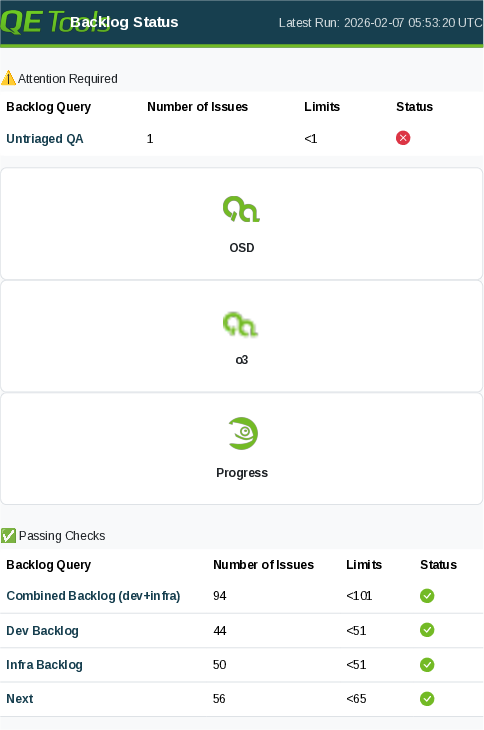
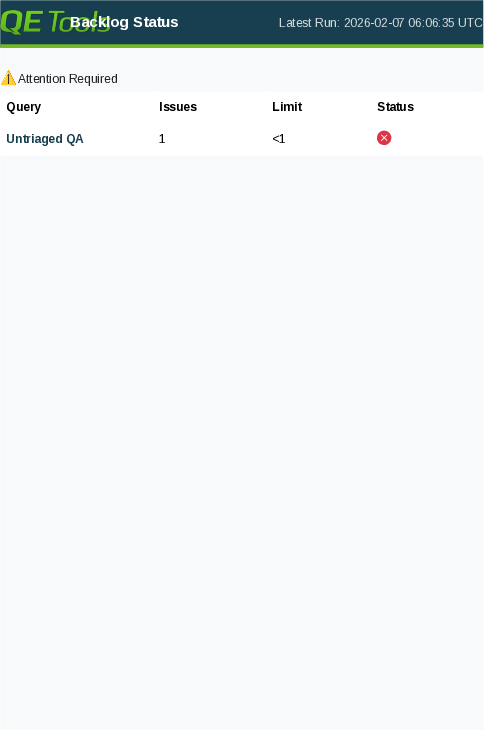
Deploying to gh-pages from @ r-richardson/qa-tools-backlog-assistant@5b09ac97a2b5991b21ab63a0f23c7e1541bede53 🚀

diff --git a/index.html b/index.html
@@ -151,7 +151,7 @@
       <span class="navbar-brand mb-0 h1 ms-1">Backlog Status</span>
     </div>
     <span class="navbar-text">
-       Latest Run: 2026-02-07 05:53:20 UTC
+       Latest Run: 2026-02-07 06:06:35 UTC
     </span>
   </div>
 </nav>
@@ -160,7 +160,7 @@
 <main><h4 id="attention-required">⚠ Attention Required</h4>
 <div class="table-responsive">
 <table class="table table-hover">
-<thead><tr><th>Backlog Query</th><th>Number of Issues</th><th>Limits</th><th>Status</th></tr></thead>
+<thead><tr><th>Query</th><th>Issues</th><th>Limit</th><th>Status</th></tr></thead>
 <tbody>
 <tr class="clickable-row" data-href="https://progress.opensuse.org/issues?query_id=576&amp;project_id=115"><td><a href="https://progress.opensuse.org/issues?query_id=576&amp;project_id=115">Untriaged QA</a></td><td>1</td><td>&lt;1</td><td><i class="bi bi-x-circle-fill status-fail"></i></td></tr>
 </tbody></table></div>
@@ -184,12 +184,54 @@
             <span>Progress</span>
         </a>
         
+
+        <a href="https://github.com/notifications" class="app-card" target="_blank">
+            <img src="icons/github_github.svg" alt="Github" class="app-icon" />
+            <span>Github</span>
+        </a>
+        
+
+        <a href="https://gitlab.suse.de/dashboard/todos" class="app-card" target="_blank">
+            <img src="icons/gitlab_gitlab.svg" alt="Gitlab" class="app-icon" />
+            <span>Gitlab</span>
+        </a>
+        
+
+        <a href="https://src.suse.de/" class="app-card" target="_blank">
+            <img src="icons/gitea_gitea.svg" alt="Gitea" class="app-icon" />
+            <span>Gitea</span>
+        </a>
+        
+
+        <a href="https://netbox.suse.de" class="app-card" target="_blank">
+            <img src="icons/netbox_netbox-dark.svg" alt="Netbox" class="app-icon" />
+            <span>Netbox</span>
+        </a>
+        
+
+        <a href="https://monitor.qa.suse.de/d/s52RapOGk/home?orgId=1&amp;from=now-6M&amp;to=now&amp;timezone=browser" class="app-card" target="_blank">
+            <img src="icons/grafana_grafana.svg" alt="Grafana" class="app-icon" />
+            <span>Grafana</span>
+        </a>
+        
+
+        <a href="https://zabbix.suse.de/" class="app-card" target="_blank">
+            <img src="icons/zabbix_zabbix.svg" alt="Zabbix" class="app-icon" />
+            <span>Zabbix</span>
+        </a>
+        
+
+        <a href="https://play.workadventu.re/@/suse/suse-office/space-station-office" class="app-card" target="_blank">
+            <img src="icons/workadventure_workadventure.png" alt="WorkAdventure" class="app-icon" />
+            <span>WorkAdventure</span>
+        </a>
+        
 </div>
 
 <h4 id="passing-checks">✅ Passing Checks</h4>
 <div class="table-responsive">
 <table class="table table-hover">
-<thead><tr><th>Backlog Query</th><th>Number of Issues</th><th>Limits</th><th>Status</th></tr></thead>
+<thead><tr><th>Query</th><th>Issues</th><th>Limit</th><th>Status</th></tr></thead>
 <tbody>
 <tr class="clickable-row" data-href="https://progress.opensuse.org/issues?query_id=230"><td><a href="https://progress.opensuse.org/issues?query_id=230">Combined Backlog (dev+infra)</a></td><td>94</td><td>&lt;101</td><td><i class="bi bi-check-circle-fill status-pass"></i></td></tr>
 <tr class="clickable-row" data-href="https://progress.opensuse.org/issues?query_id=754"><td><a href="https://progress.opensuse.org/issues?query_id=754">Dev Backlog</a></td><td>44</td><td>&lt;51</td><td><i class="bi bi-check-circle-fill status-pass"></i></td></tr>
